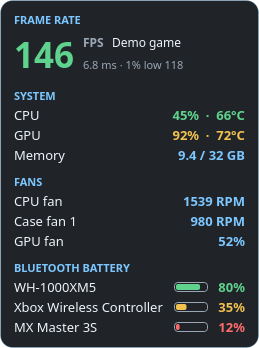
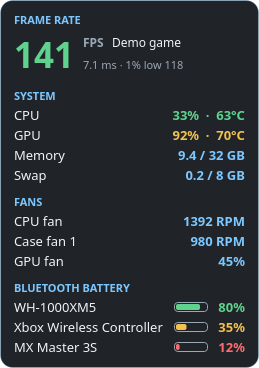
Show swap usage in the System section on Linux

diff --git a/prism_monitor/system.py b/prism_monitor/system.py
@@ -32,6 +32,8 @@ class Chip:
 class Memory:
     used_gb: float
     total_gb: float
+    swap_used_gb: float | None = None   # Linux only; None when there is no swap
+    swap_total_gb: float | None = None
 
     @property
     def percent(self) -> float:
@@ -88,7 +90,12 @@ def parse_meminfo(text: str) -> Memory | None:
     if not total or available is None:
         return None
     gib = 1024 * 1024
-    return Memory(used_gb=(total - available) / gib, total_gb=total / gib)
+    memory = Memory(used_gb=(total - available) / gib, total_gb=total / gib)
+    swap_total, swap_free = values.get('SwapTotal', 0), values.get('SwapFree', 0)
+    if swap_total:
+        memory.swap_used_gb = (swap_total - swap_free) / gib
+        memory.swap_total_gb = swap_total / gib
+    return memory
 
 
 def memory() -> Memory | None:

diff --git a/prism_monitor/ui.py b/prism_monitor/ui.py
@@ -275,6 +275,9 @@ class Overlay(QWidget):
             m = snap.memory
             rows.append(('Memory', f'{m.used_gb:.1f} / {m.total_gb:.0f} GB', None,
                          WARN if m.percent >= 90 else ACCENT))
+            if m.swap_total_gb:
+                rows.append(('Swap', f'{m.swap_used_gb:.1f} / {m.swap_total_gb:.0f} GB', None,
+                             WARN if m.swap_used_gb / m.swap_total_gb >= 0.5 else ACCENT))
         self.system.set_rows(rows)
         if snap.gpu is not None and self.system.rows and len(rows) > 1 and rows[1][0] == 'GPU':
             self.system.rows[1][0].setToolTip(snap.gpu.name)

diff --git a/tests/test_sources.py b/tests/test_sources.py
@@ -79,6 +79,10 @@ class SystemTests(unittest.TestCase):
     def test_meminfo(self):
         m = system.parse_meminfo('MemTotal:       16000000 kB\nMemFree: 1 kB\nMemAvailable:    4000000 kB\n')
         self.assertAlmostEqual(m.percent, 75.0)
+        self.assertIsNone(m.swap_total_gb)
+        m = system.parse_meminfo('MemTotal: 16777216 kB\nMemAvailable: 8388608 kB\n'
+                                 'SwapTotal: 8388608 kB\nSwapFree: 7340032 kB\n')
+        self.assertEqual((m.swap_used_gb, m.swap_total_gb), (1.0, 8.0))
 
     def test_cpu_load_runs(self):
         load = system.CpuLoad()

diff --git a/tests/test_ui.py b/tests/test_ui.py
@@ -25,7 +25,7 @@ class OverlayTests(unittest.TestCase):
         self.assertEqual(len(overlay.batteries.rows), 3)
         self.assertTrue(overlay.fps.line.isVisibleTo(overlay))
         self.assertTrue(overlay.batteries.rows[2][1].text().endswith('%'))
-        self.assertEqual([r[0].text() for r in overlay.system.rows], ['CPU', 'GPU', 'Memory'])
+        self.assertEqual([r[0].text() for r in overlay.system.rows], ['CPU', 'GPU', 'Memory', 'Swap'])
         self.assertIn('°C', overlay.system.rows[0][1].text())
         settings.clear()
 

diff --git a/prism_monitor/collector.py b/prism_monitor/collector.py
@@ -164,5 +164,5 @@ def demo_snapshot() -> Snapshot:
         fps=Fps('Demo game', fps=143 + 4 * wobble, frametime_ms=1000 / (143 + 4 * wobble), low_1pct=118),
         cpu=system.Chip('CPU', 64 + 3 * wobble, 38 + 10 * wobble),
         gpu=system.Chip('NVIDIA GeForce RTX 4070', 71 + 2 * wobble, 92),
-        memory=system.Memory(9.4, 31.9),
+        memory=system.Memory(9.4, 31.9, 0.2, 8.0),
     )

diff --git a/README.md b/README.md
@@ -14,7 +14,7 @@ It is a separate companion app to [prism-light](https://github.com/danny19862025
 | **Fans** | [LibreHardwareMonitor](https://github.com/LibreHardwareMonitor/LibreHardwareMonitor) while it is running (Windows has no built-in fan API), plus NVIDIA GPU fan % via `nvidia-smi` | Kernel `hwmon` (board chips, laptop EC drivers such as `hp`/`thinkpad`/`dell-smm`, AMD GPUs), plus `nvidia-smi` |
 | **FPS** | Bundled Intel [PresentMon](https://github.com/GameTechDev/PresentMon): works for any DirectX/Vulkan/OpenGL game, and shows the game in the foreground | [MangoHud](https://github.com/flightlessmango/MangoHud) logging, for games started with `prism-monitor-run` |
 | **CPU / GPU** | Usage from Windows. Temperatures from LibreHardwareMonitor, plus NVIDIA via `nvidia-smi` | `/proc/stat`, and temperatures from hwmon (`coretemp`, `k10temp`, `zenpower`, `amdgpu`, `nouveau`) plus `nvidia-smi`. Intel integrated graphics report no temperature, so they show no GPU row |
-| **Memory** | Windows memory status | `/proc/meminfo` |
+| **Memory** | Windows memory status | `/proc/meminfo`, plus a Swap row when swap is set up |
 | **Bluetooth battery** | The same battery value that Settings › Bluetooth shows | BlueZ (`org.bluez.Battery1`), kernel HID batteries (Logitech, DualSense, Xbox via xpadneo…), and UPower as a fallback |
 
 Sections with nothing to show are hidden. For example, FPS appears only while a game is running. To see why a section is empty, right-click the widget and turn on **Show tips for empty sections**.
